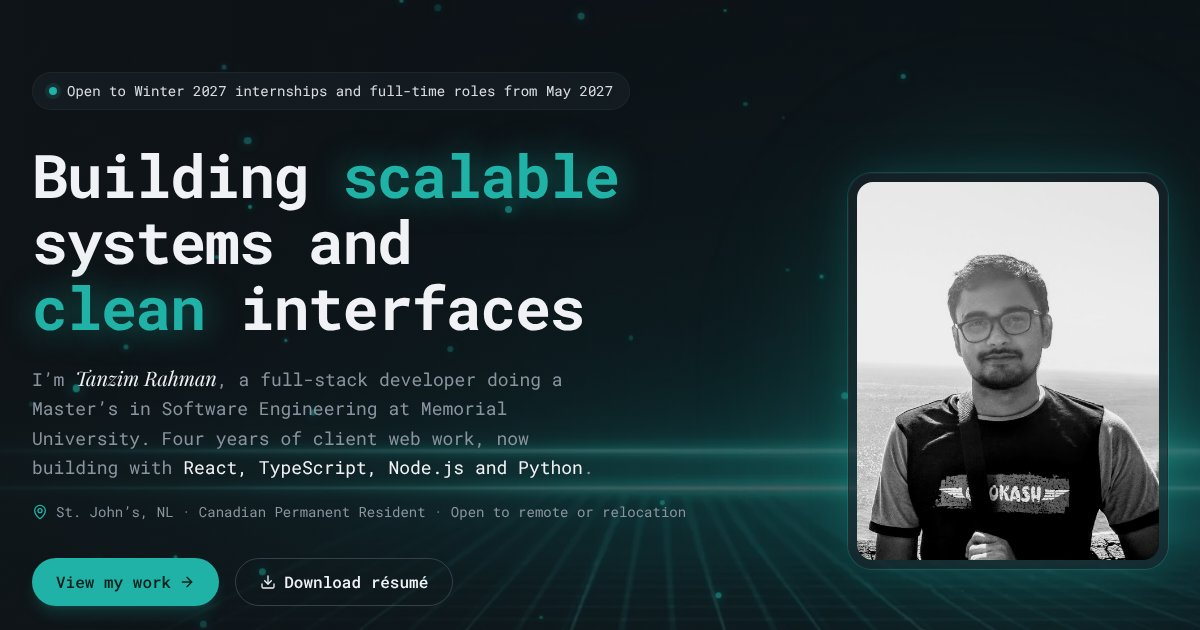
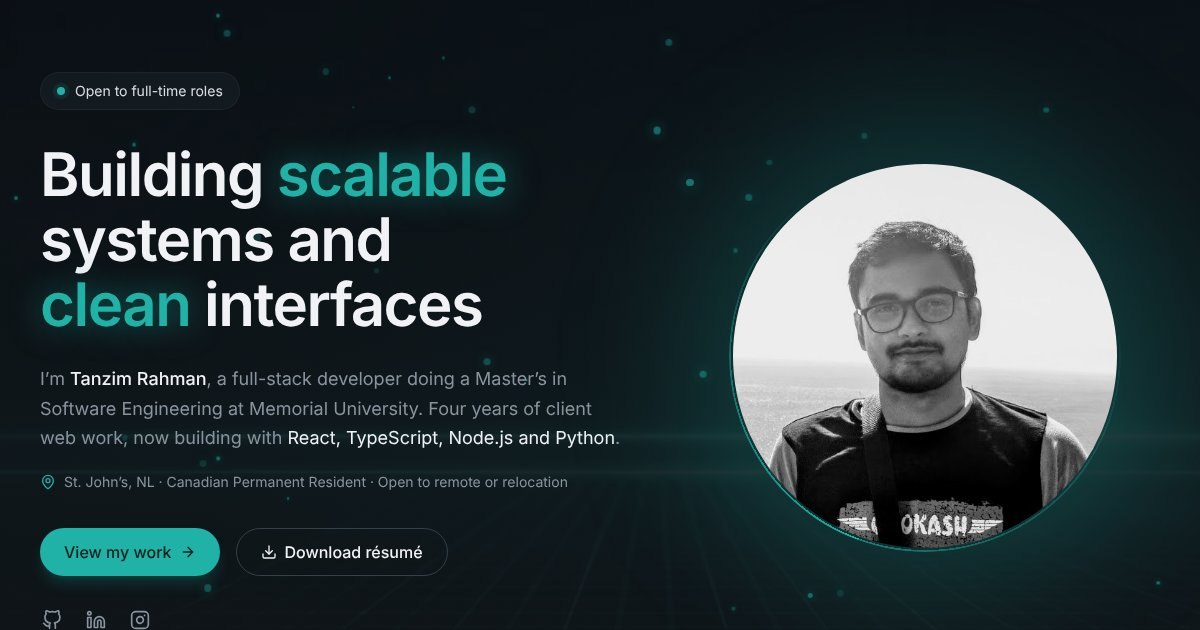
content: open to full-time roles, drop dated availability
- Availability no longer names specific terms or dates
- Remove "no sponsorship needed" wording
- Remove duplicate social icons from the contact section (footer has them)

Claude-Session: https://claude.ai/code/session_01RP7KMqzBdZ6Ccv7bqYazBK

diff --git a/src/features/contact/Contact.tsx b/src/features/contact/Contact.tsx
@@ -1,7 +1,6 @@
 import { CheckCircle2, Mail, MapPin, Phone } from 'lucide-react'
 import { Reveal } from '@/components/ui/Reveal'
 import { SectionHeader } from '@/components/ui/SectionHeader'
-import { SocialLinks } from '@/components/ui/SocialLinks'
 import { site } from '@/config/site'
 import { ContactForm } from './ContactForm'
 
@@ -21,7 +20,7 @@ export function Contact() {
           eyebrow="Get in touch"
           title="Let’s build"
           accent="something great."
-          description="Hiring for an internship or a full-time role, or have a project in mind? I usually reply within a day."
+          description="Hiring for a full-time role, or have a project in mind? I usually reply within a day."
         />
 
         <div className="grid gap-8 lg:grid-cols-[1fr_24rem] lg:gap-12">
@@ -76,7 +75,6 @@ export function Contact() {
               })}
             </ul>
 
-            <SocialLinks className="-ml-1" />
           </Reveal>
         </div>
       </div>

diff --git a/index.html b/index.html
@@ -6,7 +6,7 @@
     <title>Tanzim Rahman — Full-Stack Developer</title>
     <meta
       name="description"
-      content="Tanzim Rahman is a full-stack developer (React, Node.js, TypeScript, Python) and MASc Software Engineering student at Memorial University in St. John's, NL. Open to Winter 2027 internships and full-time roles."
+      content="Tanzim Rahman is a full-stack developer (React, Node.js, TypeScript, Python) and MASc Software Engineering student at Memorial University in St. John's, NL. Open to full-time roles."
     />
     <meta name="theme-color" content="#0f1418" />
     <link rel="canonical" href="https://tanzim-rahman.com/" />

diff --git a/src/config/site.ts b/src/config/site.ts
@@ -17,9 +17,9 @@ export const site = {
   resumeUrl: '/Tanzim_Rahman_Resume.pdf',
 
   availability: {
-    headline: 'Open to Winter 2027 internships and full-time roles from May 2027',
+    headline: 'Open to full-time roles',
     details: [
-      'Canadian Permanent Resident — no sponsorship needed',
+      'Canadian Permanent Resident',
       "Based in St. John's, NL · open to remote or relocating to Toronto, Calgary or Vancouver",
     ],
   },
